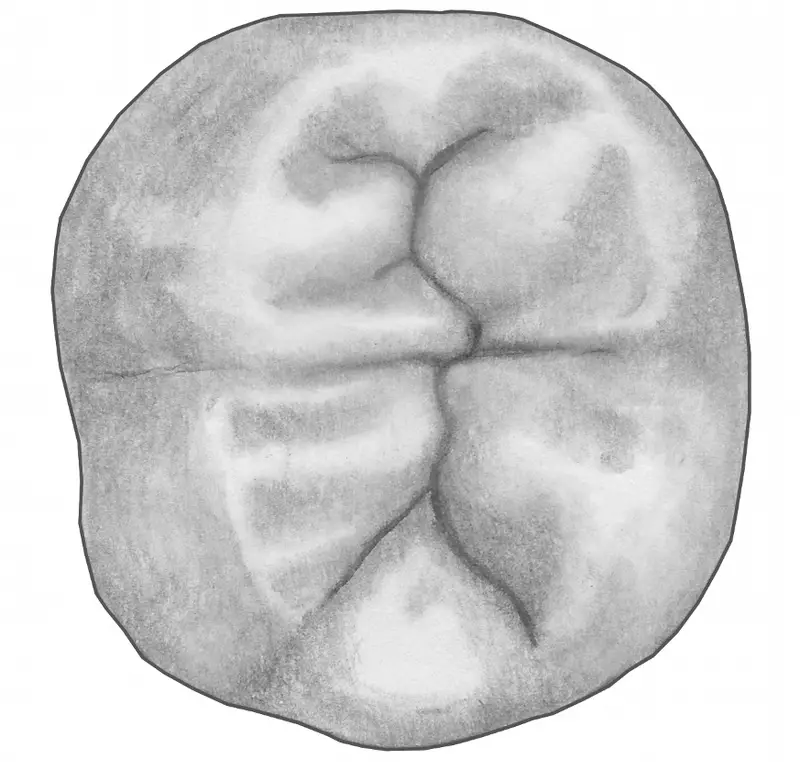
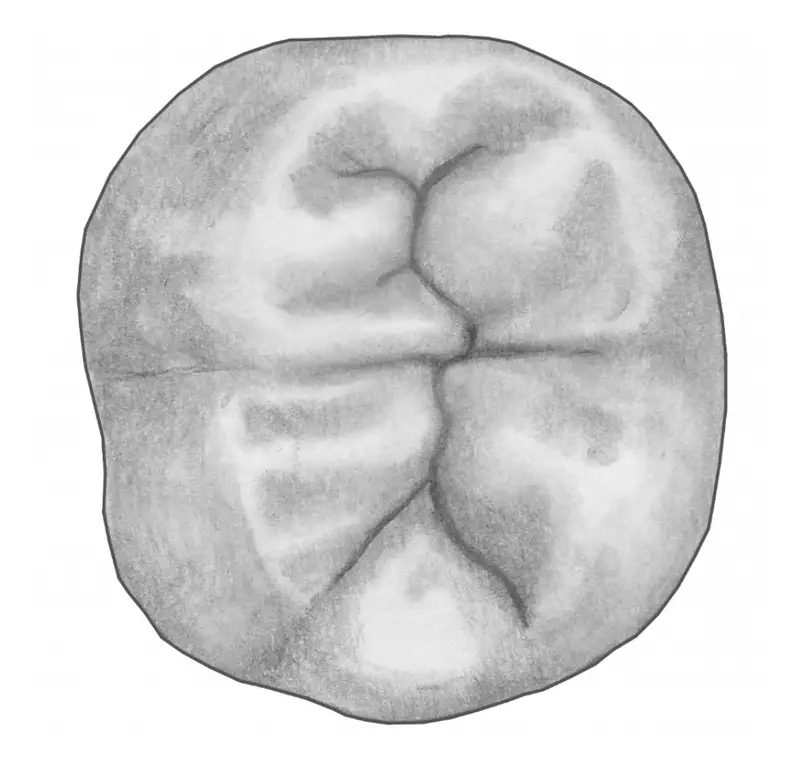
Cranial measurement figures; LM2CN score 3 described and new score 5 drawing
- Each cranial and mandibular measurement with a figure in Assets/MOSAIC
  Photos 3/Cranial Images/Metric (37, all matched) now shows it instead of the
  shared DCP 2.0 page. 17 cranial measurements still have no figure.
- LM2CN state 3: 'Only three cusps are present.' (Andie, 2026-11-18; missing
  from the sheet by a typo). Third molars borrow it.
- Dental drawings in the newer '<jaw> Line Drawings/' folders now win over
  the first download's copy, so Andie's corrected LM2CN_5 is used.
- ILLUSTRATION_BONES keyed by the renamed innominate bone id.

diff --git a/scripts/extract-fixture.ts b/scripts/extract-fixture.ts
@@ -54,6 +54,7 @@ const DENTAL_XLSX = path.join(REF, "MOSAIC Photos/Dental Images/Morphological/MO
 // list still comes from the first copy and this one only supplies
 // descriptions.
 const DENTAL_DESC_XLSX = path.join(REF, "MOSAIC Photos 3/Dental Images/Morphological/MOSAIC_DentalVariables.xlsx")
+const DENTAL_DESC_ADDITIONS: [name: string, state: string, label: string][] = [["mand_cusp_m2", "3", "Only three cusps are present."]]
 const POSTCRANIAL_PDF = path.join(REF, "MOSAIC Postcranial Metrics Data Collection Form.pdf")
 const ILLUSTRATIONS_PDF = path.join(REF, "MOSAIC Photos 2/Cranial Images/Metric/illustrations.pdf")
 
@@ -433,7 +434,7 @@ const photoKey = (abbr: string) => {
   return DENTAL_PHOTO_ALIAS[k] ?? k
 }
 
-// DCP 2.0 figures in illustrations.pdf (UTK; local builds only) that show
+// DCP 2.0 figures in illustrations.pdf (UTK) that show
 // each cranial and mandibular measurement. The figures carry no labels, so
 // they're matched by caption and shown without a highlight.
 const ILLUSTRATION_PAGES: Record<number, string[]> = {
@@ -449,7 +450,7 @@ const ILLUSTRATION_PAGES: Record<number, string[]> = {
 // Postcranial bones in illustrations.pdf, for measurements the postcranial
 // form has no figure for.
 const ILLUSTRATION_BONES: Record<string, number> = {
-  clavicle: 13, scapula: 14, humerus: 15, radius: 16, ulna: 17, sacrum: 18, "os-coxae": 19, femur: 20, tibia: 21, fibula: 22, calcaneus: 23,
+  clavicle: 13, scapula: 14, humerus: 15, radius: 16, ulna: 17, sacrum: 18, innominate: 19, femur: 20, tibia: 21, fibula: 22, calcaneus: 23,
 }
 
 // ---------------------------------------------------------------------------
@@ -606,6 +607,12 @@ async function main() {
     if (!dentalDescriptions.has(name)) dentalDescriptions.set(name, new Map())
     dentalDescriptions.get(name)!.set(code, label)
   }
+  // Missing from the sheet (a typo there), given by Andie on 2026-11-18. Third
+  // molars borrow the second molar's descriptions, so this covers both.
+  for (const [name, code, label] of DENTAL_DESC_ADDITIONS) {
+    if (!dentalDescriptions.has(name)) dentalDescriptions.set(name, new Map())
+    if (!dentalDescriptions.get(name)!.has(code)) dentalDescriptions.get(name)!.set(code, label)
+  }
   const form = readPostcranialForm()
   const postMetricCodes = [...postMetric.keys()]
   const itemOf = (code: string) => postMetricCodes.indexOf(code) + 6
@@ -729,7 +736,9 @@ async function main() {
   const dentalFiles = new Map<string, string[]>()
   const dentalPhotos = new Map<string, { state: string; file: string; credit: string }[]>()
   for (const jaw of ["Maxilla", "Mandible"]) {
-    const seen = new Map([...photoFiles(`Dental Images/Morphological/${jaw} Line Drawings`), ...photoFiles(`Dental Images/Morphological/${jaw}`)])
+    // Later entries win: the newer "<jaw> Line Drawings/" layout replaces the
+    // first download's copy (e.g. Andie's corrected LM2CN_5, 2026-11-18).
+    const seen = new Map([...photoFiles(`Dental Images/Morphological/${jaw}`), ...photoFiles(`Dental Images/Morphological/${jaw} Line Drawings`)])
     for (const [f, full] of seen) {
       if (f.endsWith(".png")) dentalFiles.set(f, [...(dentalFiles.get(f) ?? []), full])
     }
@@ -955,10 +964,22 @@ async function main() {
       manifest[id] = { kind: "figure", figure: asset, caption }
     }
   }
+  // One figure per cranial and mandibular measurement, the measurement marked
+  // (Cranial Images/Metric, named by code; added 2026-11-18). They replace the
+  // shared DCP 2.0 pages above and cover measurements those pages don't show.
+  for (const [f, full] of [...photoFiles("Cranial Images/Metric")].sort()) {
+    const code = f.replace(/\.[a-z]+$/i, "")
+    const id = skullIds.get(code)
+    if (!id) {
+      unmatchedPhotos.push(`Cranial Images/Metric/${f}: no cranial measurement with this code`)
+      continue
+    }
+    const v = variables[id]
+    manifest[id] = { kind: "figure", figure: await toWebp(full, `dcp-measures/${code}.webp`), caption: `Measurement drawing · ${v.fullName ?? v.name}` }
+  }
   // One figure per postcranial measurement, the measurement already marked in
   // red (Postcranial Images/Metric, named by code). They replace the shared
-  // form pages and their drawn highlight boxes. Drawn from DCP 2.0, so local
-  // builds only, like the other DCP figures.
+  // form pages and their drawn highlight boxes. Drawn from DCP 2.0.
   for (const [f, full] of [...photoFiles("Postcranial Images/Metric")].sort()) {
     const code = f.replace(/\.[a-z]+$/i, "")
     const id = byCode.get(code)

diff --git a/src/routes/guide.tsx b/src/routes/guide.tsx
@@ -63,9 +63,9 @@ const UPDATES: Update[] = [
         title: <>Measurement figures for Metric fields</>,
         body: (
           <>
-            Most postcranial measurements have their own figure with the measurement marked in red, and the cranial,
-            mandible and innominate measurements show their figures from the data-collection references. Tell us if a figure marks the wrong measurement or is
-            hard to read at the panel's size.
+            Each cranial, mandible and postcranial measurement now has its own figure with the measurement marked,
+            except for 17 cranial measurements still waiting for one. Tell us if a figure marks the wrong measurement
+            or is hard to read at the panel's size.
           </>
         ),
         how: <>Open any Metric section and focus a measurement with the reference panel on.</>,
@@ -79,6 +79,11 @@ const UPDATES: Update[] = [
           </>
         ),
         how: <>In Cranium · Morphological (Vault and palate) or Pelvis · Morphological (Pubis), focus one of these traits.</>,
+      },
+      {
+        title: <>Cusp number on the lower second and third molars</>,
+        body: <>Score 3 (only three cusps) now has its description, and score 5 has a new drawing.</>,
+        goTo: { label: "Try it in Dentition · Morphological", href: tryLink({ start: "dentition-morph", ref: "A", refon: "1" }) },
       },
     ],
   },

diff --git a/scripts/manifest-report.md b/scripts/manifest-report.md
@@ -4,9 +4,9 @@ Generated 2026-11-18 by `npm run fixture`. 369 Variables in 14 sections.
 
 | Section | Variables | Drawings and figures | With photos | States pending |
 | --- | --- | --- | --- | --- |
-| Cranium · Metric | 46 + 38 calculated | 0 drawn · 24 figure · 22 none |  |  |
+| Cranium · Metric | 46 + 38 calculated | 0 drawn · 29 figure · 17 none |  |  |
 | Cranium · Morphological | 40 | 21 drawn · 0 figure · 16 none | 20 (353 photos) |  |
-| Mandible · Metric | 9 | 0 drawn · 8 figure · 1 none |  |  |
+| Mandible · Metric | 9 | 0 drawn · 9 figure · 0 none |  |  |
 | Mandible · Morphological | 6 | 0 drawn · 0 figure · 6 none |  |  |
 | Dentition · Metric | 8 | 0 drawn · 0 figure · 8 none |  |  |
 | Dentition · Morphological | 79 | 77 drawn · 0 figure · 0 none | 78 (766 photos) |  |
